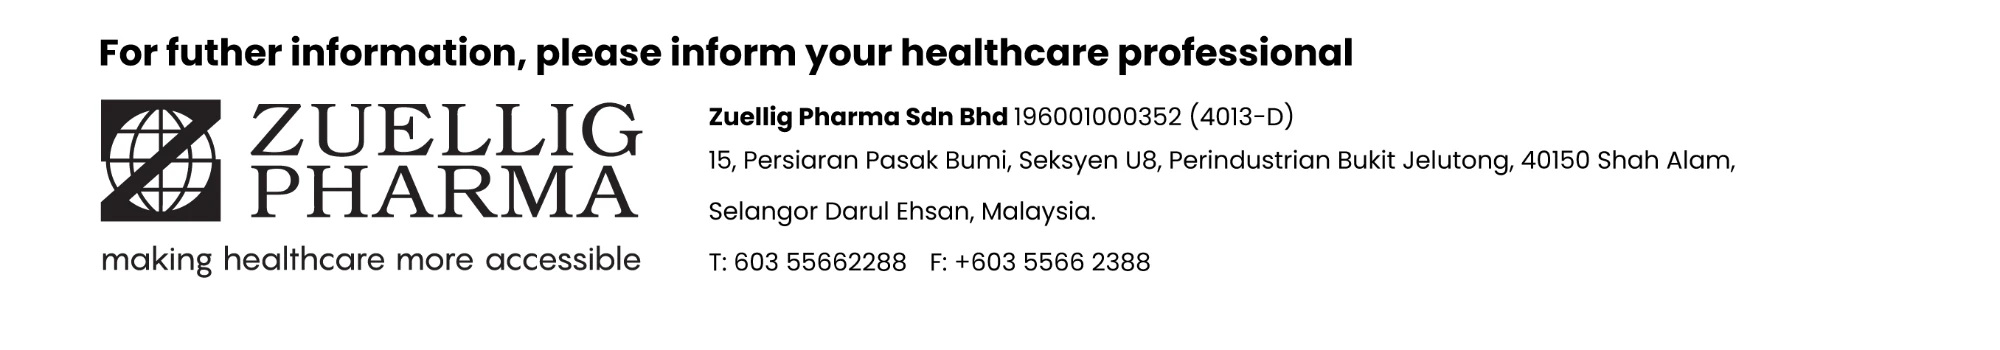
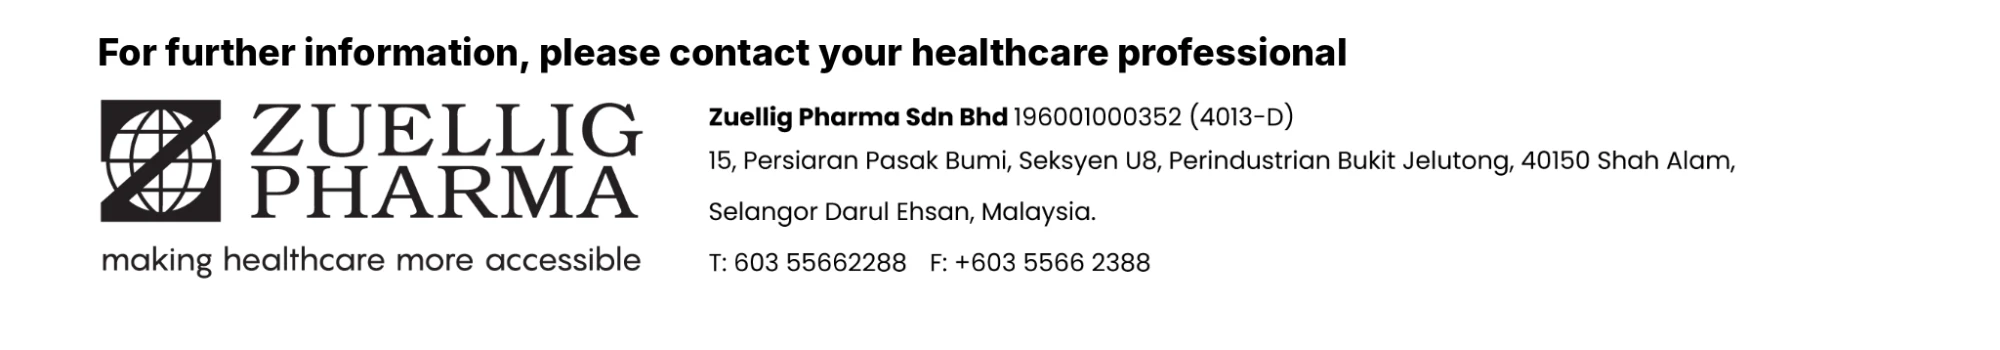
Update disclaimer artwork and add approval code to start screen
- Replace disclaimer image with corrected wording ("further", "contact").
- Show material approval code MY-NP-ELI-MOU-IDA-PUC-000001-10-22-2028 in
  small print, centred under the disclaimer card on the start screen.

diff --git a/src/styles/theme.css b/src/styles/theme.css
@@ -228,7 +228,7 @@ body,
   position: absolute;
   left: 40px;
   right: 40px;
-  bottom: 24px;
+  bottom: 30px;
   z-index: 3;
   padding: 10px 18px;
   border-radius: 20px;
@@ -239,6 +239,21 @@ body,
   display: block;
   width: 100%;
   height: auto;
+}
+
+/* Material approval code: small print centred in the gap under the disclaimer card. */
+.approval-code {
+  position: absolute;
+  left: 0;
+  right: 0;
+  bottom: 3px;
+  text-align: center;
+  z-index: 3;
+  margin: 0;
+  font-size: 15px;
+  font-weight: 600;
+  letter-spacing: 0.02em;
+  color: rgba(255, 244, 214, 0.75);
 }
 
 /* Full-body cut-outs between the START button and the disclaimer; ribbons trail off the screen edges. */

diff --git a/src/config.ts b/src/config.ts
@@ -20,6 +20,9 @@ export const MAX_NAME_LENGTH = 12;
 /** Disclaimer footer shown on the start and results screens. Replace the file (same name) to update it. */
 export const DISCLAIMER_IMAGE = 'assets/disclaimer.webp';
 
+/** Material approval/reference code, shown in small print at the bottom centre of the start screen. */
+export const APPROVAL_CODE = 'MY-NP-ELI-MOU-IDA-PUC-000001-10-22-2028';
+
 /** Background music. Replace the files in public/assets/ (keeping the names) to change the tracks. */
 export const MUSIC = {
   /** Looped while a question is on screen, restarting each question. */

diff --git a/src/screens/AttractScreen.tsx b/src/screens/AttractScreen.tsx
@@ -1,6 +1,6 @@
 import { motion } from 'framer-motion';
 import { useRef } from 'react';
-import { ADMIN_HOLD_MS, DEFAULT_IMAGES } from '../config';
+import { ADMIN_HOLD_MS, APPROVAL_CODE, DEFAULT_IMAGES } from '../config';
 import { IMAGE_SLOTS } from '../data/storage';
 import { useStoredImage } from '../game/hooks';
 import { Disclaimer } from '../components/Disclaimer';
@@ -97,6 +97,7 @@ export function AttractScreen({ canStart, onStart, onAdmin }: Props) {
         </p>
       )}
       <Disclaimer />
+      <p className="approval-code">{APPROVAL_CODE}</p>
     </Screen>
   );
 }

diff --git a/src/components/Disclaimer.tsx b/src/components/Disclaimer.tsx
@@ -4,7 +4,7 @@ import { DISCLAIMER_IMAGE } from '../config';
 export function Disclaimer() {
   return (
     <div className="disclaimer">
-      <img src={DISCLAIMER_IMAGE} alt="For further information, please consult your healthcare professional. Zuellig Pharma Sdn Bhd." />
+      <img src={DISCLAIMER_IMAGE} alt="For further information, please contact your healthcare professional. Zuellig Pharma Sdn Bhd." />
     </div>
   );
 }
